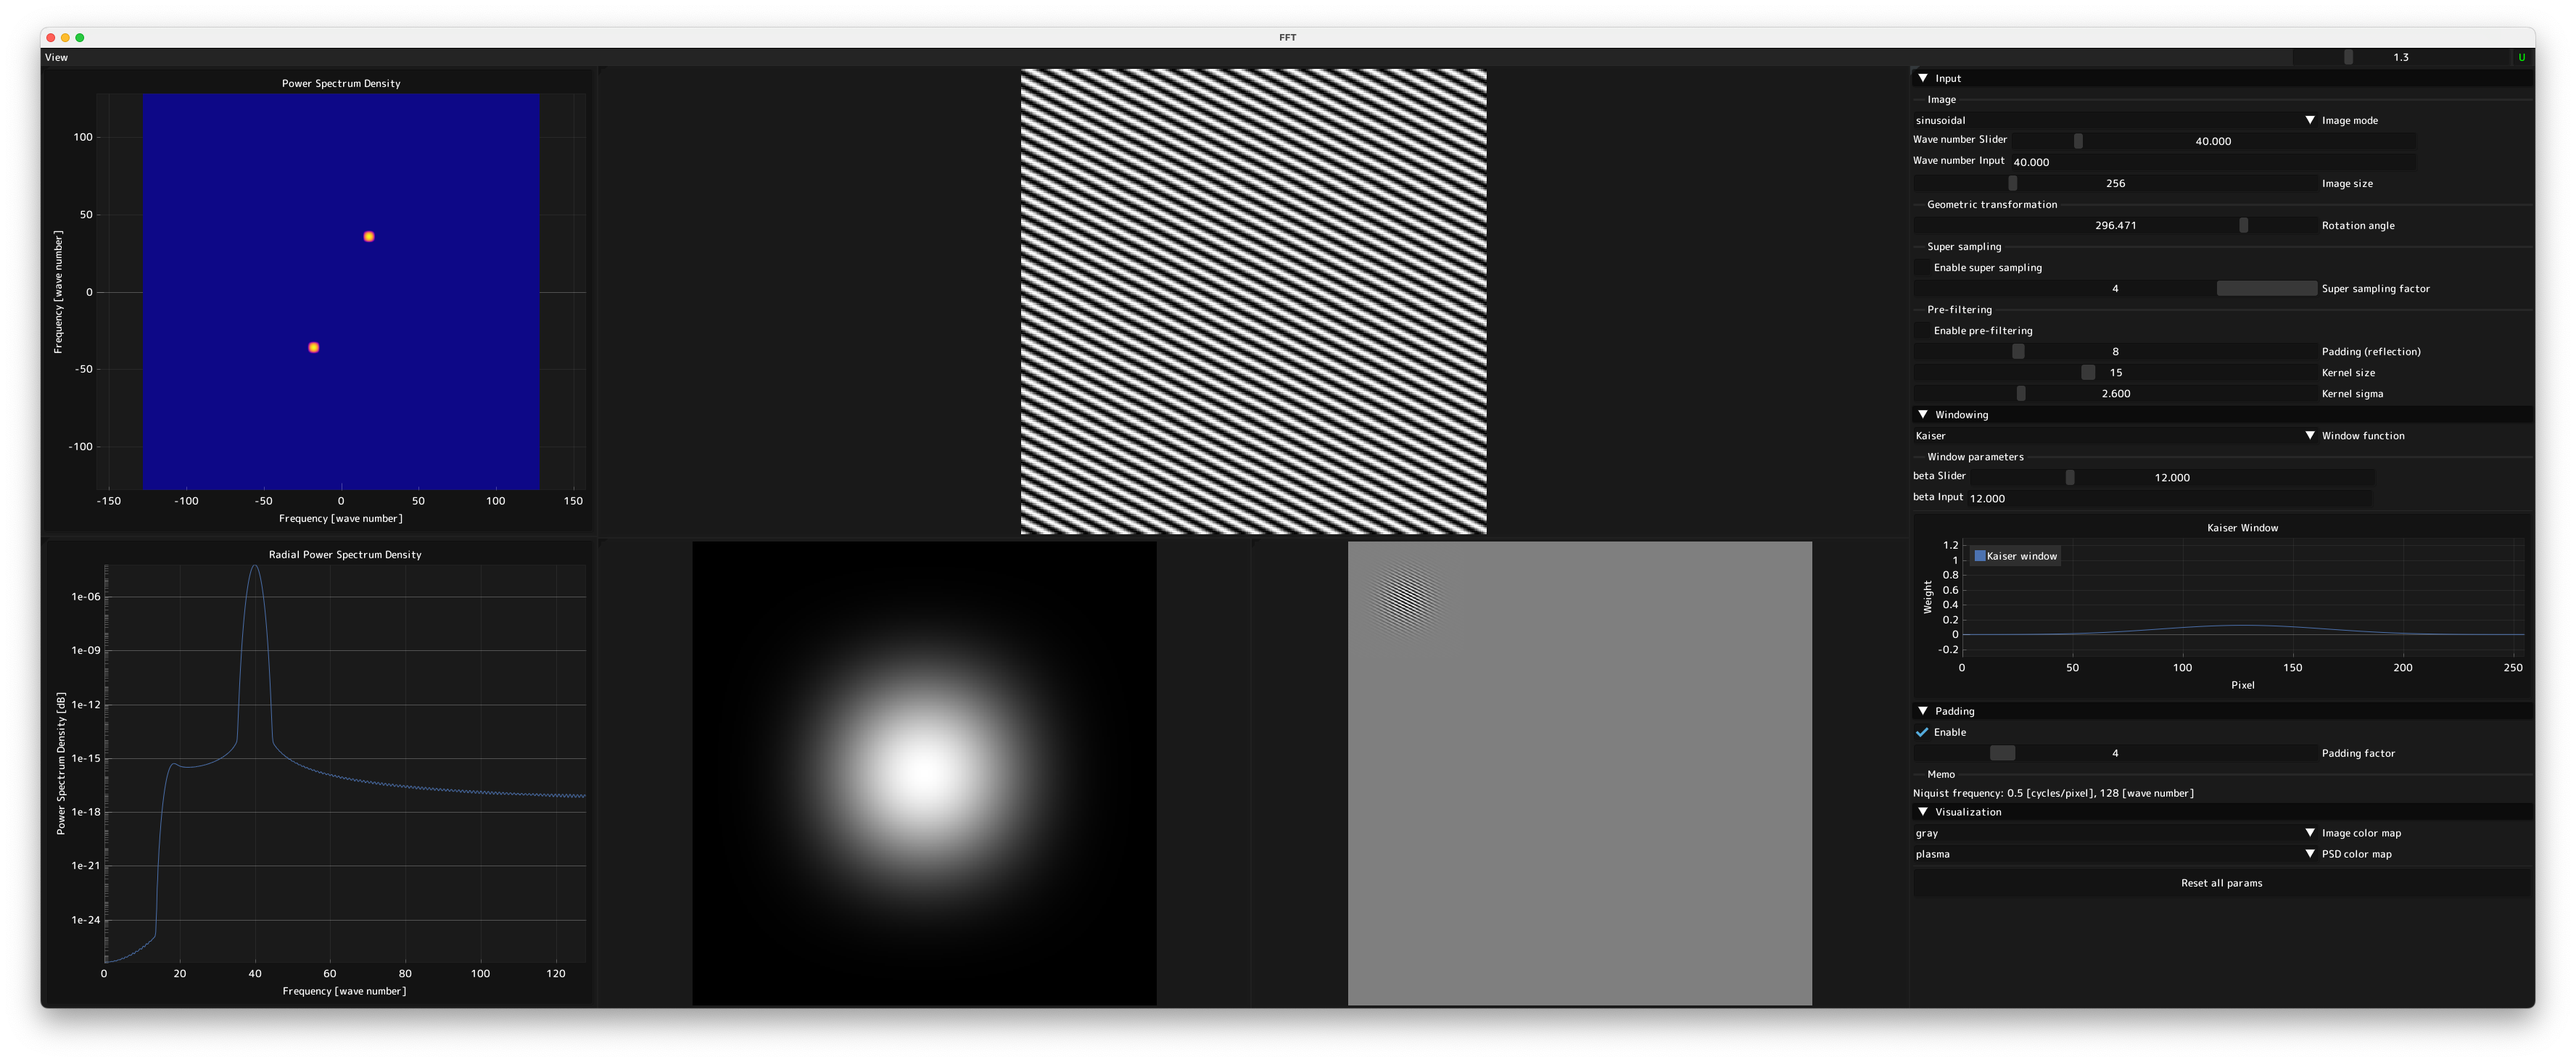
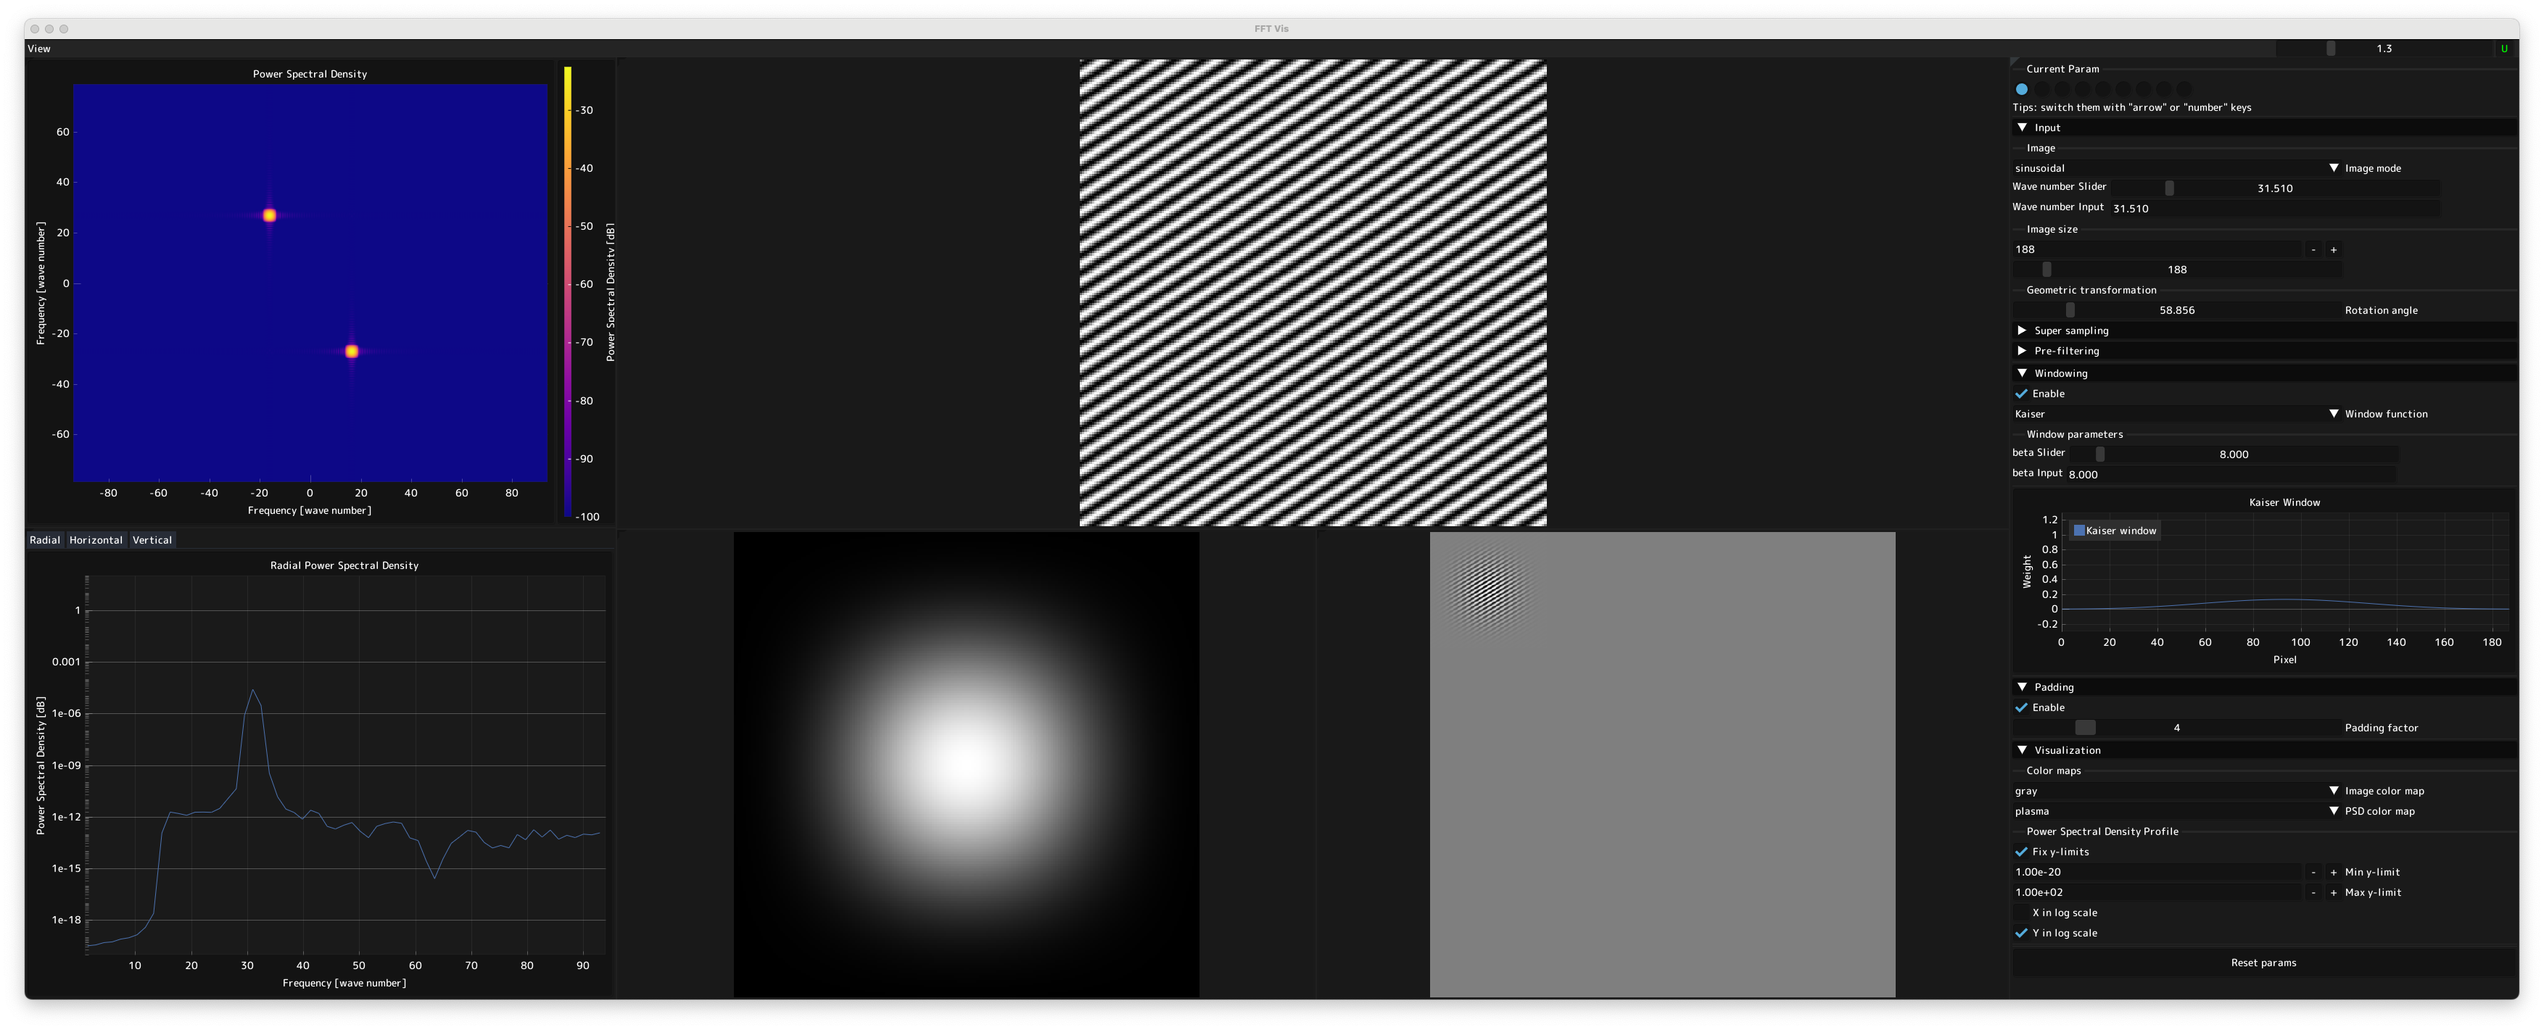
Fixed bugs in key callbacks

diff --git a/interactive.py b/interactive.py
@@ -685,15 +685,17 @@ class FFTVisualizer(pyviewer_extended.MultiTexturesDockingViewer):
         # Parameter caching
 
         # Detect arrow key
-        if self.keyhit(imgui.Key.right_arrow):
-            self.cur_cache_param_id = (self.cur_cache_param_id + 1) % self.NUM_PARAMS_CACHES
-        elif self.keyhit(imgui.Key.left_arrow):
-            self.cur_cache_param_id = (self.cur_cache_param_id - 1) % self.NUM_PARAMS_CACHES
+        is_any_item_active = imgui.is_any_item_active()
+        if not is_any_item_active:  # Except when inputting values ...
+            if self.keyhit(imgui.Key.right_arrow):
+                self.cur_cache_param_id = (self.cur_cache_param_id + 1) % self.NUM_PARAMS_CACHES
+            elif not imgui.is_any_item_active() and self.keyhit(imgui.Key.left_arrow):
+                self.cur_cache_param_id = (self.cur_cache_param_id - 1) % self.NUM_PARAMS_CACHES
 
         # Detect number key
         for i_cache in range(self.NUM_PARAMS_CACHES):
             key = getattr(imgui.Key, f'_{i_cache + 1}')
-            if self.keyhit(key):
+            if not is_any_item_active and self.keyhit(key):  # Except when inputting values ...
                 self.cur_cache_param_id = i_cache
 
         imgui.separator_text('Current Param')
@@ -708,6 +710,8 @@ class FFTVisualizer(pyviewer_extended.MultiTexturesDockingViewer):
 
         # ---------------------------------------------------------------------------------------------------
         # Parameters for the noise
+
+        imgui.separator()
         if imgui.collapsing_header('Input', flags=imgui.TreeNodeFlags_.default_open):
             imgui.separator_text('Image')
 
@@ -748,23 +752,24 @@ class FFTVisualizer(pyviewer_extended.MultiTexturesDockingViewer):
             imgui.separator_text('Geometric transformation')
             self.params.rotate = imgui.slider_float('Rotation angle', self.params.rotate, 0.0, 360.0)[1]
 
-            imgui.separator_text('Super sampling')
-            if self.params.img_mode == ImageMode.sinusoidal:
-                self.params.enable_super_sampling = imgui.checkbox('Enable super sampling', self.params.enable_super_sampling)[1]
-                self.params.super_sampling_factor = imgui.slider_int('Super sampling factor', self.params.super_sampling_factor, 1, 4)[1]
-            else:
-                imgui.text('Super sampling is disabled for file images')
+            if imgui.collapsing_header('Super sampling'):
+                if self.params.img_mode == ImageMode.sinusoidal:
+                    self.params.enable_super_sampling = imgui.checkbox('Enable super sampling', self.params.enable_super_sampling)[1]
+                    self.params.super_sampling_factor = imgui.slider_int('Super sampling factor', self.params.super_sampling_factor, 1, 4)[1]
+                else:
+                    imgui.text('Super sampling is disabled for file images')
 
-            imgui.separator_text('Pre-filtering')
-            self.params.enable_pre_filering = imgui.checkbox('Enable pre-filtering', self.params.enable_pre_filering)[1]
-            self.params.pre_filter_padding = imgui.slider_int('Padding (reflection)', self.params.pre_filter_padding, 0, 32)[1]
-            kernel_size = imgui.slider_int('Kernel size', self.params.kernel_size, 3, 31)[1]
-            self.params.kernel_size = kernel_size + 1 if kernel_size % 2 == 0 else kernel_size
-            self.params.kernel_sigma = imgui.slider_float('Kernel sigma', self.params.kernel_sigma, 0.01, 10.0)[1]
+            if imgui.collapsing_header('Pre-filtering'):
+                self.params.enable_pre_filering = imgui.checkbox('Enable pre-filtering', self.params.enable_pre_filering)[1]
+                self.params.pre_filter_padding = imgui.slider_int('Padding (reflection)', self.params.pre_filter_padding, 0, 32)[1]
+                kernel_size = imgui.slider_int('Kernel size', self.params.kernel_size, 3, 31)[1]
+                self.params.kernel_size = kernel_size + 1 if kernel_size % 2 == 0 else kernel_size
+                self.params.kernel_sigma = imgui.slider_float('Kernel sigma', self.params.kernel_sigma, 0.01, 10.0)[1]
 
         # ---------------------------------------------------------------------------------------------------
         # FFT parameters
 
+        imgui.separator()
         if imgui.collapsing_header('Windowing', flags=imgui.TreeNodeFlags_.default_open):
             imgui.push_id('enable_windowing')
             self.params.enable_windowing = imgui.checkbox('Enable', self.params.enable_windowing)[1]
@@ -796,6 +801,7 @@ class FFTVisualizer(pyviewer_extended.MultiTexturesDockingViewer):
                     implot.plot_line(f'{window_name} window', self.state.window)
                     implot.end_plot()
 
+        imgui.separator()
         if imgui.collapsing_header('Padding', flags=imgui.TreeNodeFlags_.default_open):
             imgui.push_id('enable_padding')
             self.params.apply_padding = imgui.checkbox('Enable', self.params.apply_padding)[1]
@@ -806,6 +812,8 @@ class FFTVisualizer(pyviewer_extended.MultiTexturesDockingViewer):
 
         # ---------------------------------------------------------------------------------------------------
         # Visualization parameters
+
+        imgui.separator()
         if imgui.collapsing_header('Visualization', flags=imgui.TreeNodeFlags_.default_open):
             imgui.separator_text('Color maps')
             self.params.img_cmap_id = imgui.combo('Image color map', self.params.img_cmap_id, MPL_CMAPS)[1]
@@ -824,6 +832,7 @@ class FFTVisualizer(pyviewer_extended.MultiTexturesDockingViewer):
         # ---------------------------------------------------------------------------------------------------
         # Reset button
 
+        imgui.separator()
         if imgui.button('Reset params', size=(-1, 40)):
             self.state.params = Params()
 
